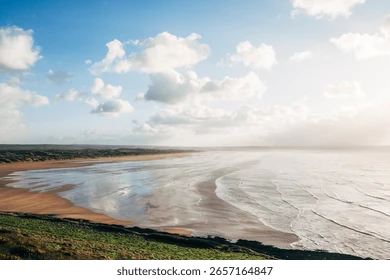
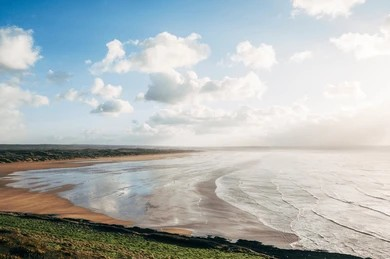
index and estate complete

diff --git a/estate.html b/estate.html
@@ -68,7 +68,7 @@
     <div class="container">
       <div class="text-center">
         <span class="section-tag">The Trimstone Gardens</span>
-        <h2 class="section-heading">Explore Our Relaxing Spacious Gardens</h2>
+        <h2 class="section-heading">Our Relaxing, Spacious CountrysideGardens</h2>
         <div class="gold-divider"></div>
       </div>  
 
@@ -105,7 +105,7 @@
     <div class="container">
       <div class="text-center">
         <span class="section-tag">The Trimstone Facilities</span>
-        <h2 class="section-heading">Explore OurPool and Recreation</h2>
+        <h2 class="section-heading">Explore Our Pool and Recreation Areas</h2>
         <div class="gold-divider"></div>
       </div>
 
@@ -114,7 +114,7 @@
           <div class="card-img" style="background-image: url('assets/images/water wheel.jpg');"></div>
           <div class="card-body">
             <h3 class="card-title">Indoor Heated Pool</h3>
-            <p class="card-text">Enjoy a refreshing swim in our tranquil indoor pool facility April - October inclusive.</p>
+            <p class="card-text">Enjoy a refreshing swim in our tranquil indoor pool facility, April - October inclusive.</p>
            
           </div>
         </div>
@@ -123,7 +123,7 @@
           <div class="card-img" style="background-image: url('assets/images/games-room-best.jpg');"></div>
           <div class="card-body">
             <h3 class="card-title">Games & Recreation</h3>
-            <p class="card-text">Unwind with family games and leisure activities available right on site.</p>
+            <p class="card-text">Unwind with family games and leisure activities available on site.</p>
     
           </div>
         </div>

diff --git a/index.html b/index.html
@@ -174,15 +174,6 @@
       &copy; 2026 Trimstone Manor Estate. All rights reserved.
     </div>
   </footer>
-<!-- Footer -->
-  <footer>
-    <div class="footer-title">TRIMSTONE MANOR</div>
-    <div class="footer-sub">Hotel & Holiday Cottages &bull; West Down, Ilfracombe</div>
-    <p style="font-size: 0.85rem; max-width: 600px; margin: 0 auto;">Trimstone Lane, West Down, Near Ilfracombe, North Devon, EX34 8NR</p>
-    <div class="footer-copyright">
-      &copy; 2026 Trimstone Manor Estate. All rights reserved.
-    </div>
-  </footer>
 
   <!-- Lightbox Modal Overlay -->
   <div id="imageLightbox" class="lightbox-modal" onclick="closeLightbox()">
